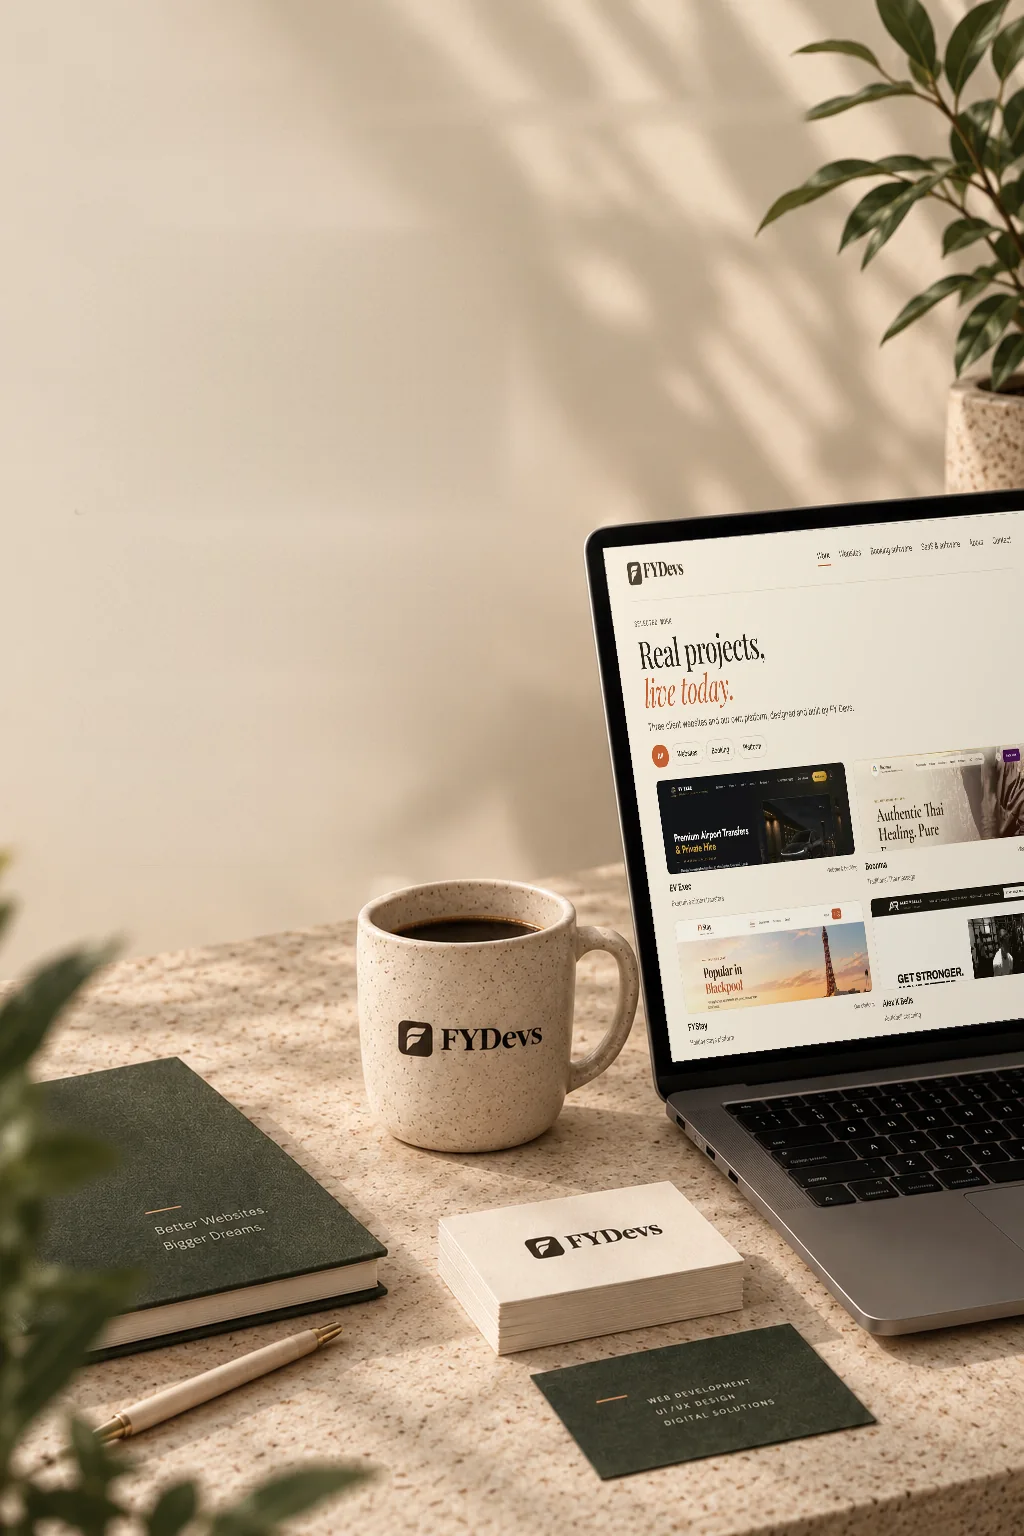
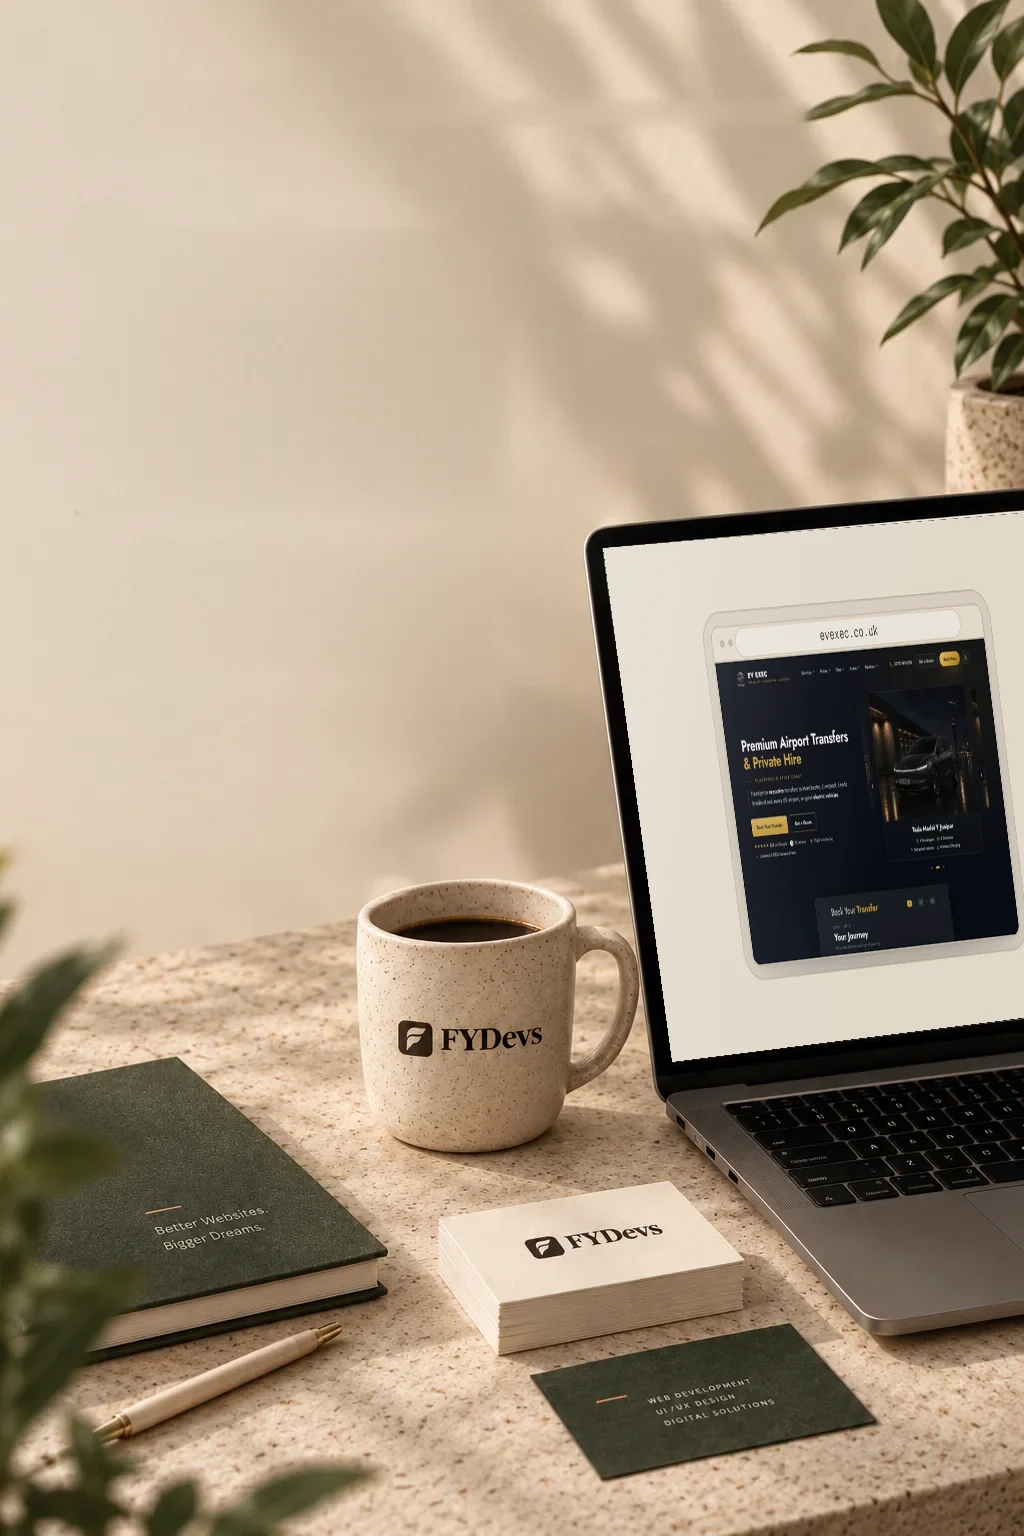
Hero laptop shows the project preview from the start
The laptop in the hero photo now shows the same EV Exec preview the live
screen starts on, so nothing changes as the page loads or as you begin to
scroll. On phones the preview is enlarged to fill the laptop screen and
eases to its normal size as the screen turns to face you, staying centred
in the view; the project tabs appear as it lands. The slideshow only runs
once the zoom has landed, so the screen never changes project mid-scroll.

Claude-Session: https://claude.ai/code/session_01L81Z7NMFirATvJ8pTfU9Zt

Changed region(s): [[0.625, 0.4062, 1.0, 0.6562], [0.625, 0.3438, 0.6562, 0.375]]

diff --git a/src/components/interactive/LaptopZoom.tsx b/src/components/interactive/LaptopZoom.tsx
@@ -46,8 +46,8 @@ function imageMapper(img: HTMLImageElement, box: { x: number; y: number; w: numb
   return ([ix, iy]: Point): Point => [box.x + (ix * box.w) / nw, box.y + (iy * box.h) / nh];
 }
 
-/** CSS matrix3d that maps a w×h box onto the quad (projective transform). */
-function rectToQuad(w: number, h: number, [p0, p1, p2, p3]: Point[]) {
+/** The projective transform taking a w×h box onto the quad, as [a, b, c, d, e, f, g, h]. */
+function homography(w: number, h: number, [p0, p1, p2, p3]: Point[]) {
   const [x0, y0] = p0;
   const [x1, y1] = p1;
   const [x2, y2] = p2;
@@ -65,8 +65,27 @@ function rectToQuad(w: number, h: number, [p0, p1, p2, p3]: Point[]) {
   const b = x3 - x0 + hh * x3;
   const d = y1 - y0 + g * y1;
   const e = y3 - y0 + hh * y3;
-  const m = [a / w, d / w, 0, g / w, b / h, e / h, 0, hh / h, 0, 0, 1, 0, x0, y0, 0, 1];
+  // x' = (a·x + b·y + c) / (g·x + h·y + 1), and likewise y' with d, e, f; x and y in the box.
+  return [a / w, b / h, x0, d / w, e / h, y0, g / w, hh / h];
+}
+
+/** CSS matrix3d that maps a w×h box onto the quad. */
+function rectToQuad(w: number, h: number, quad: Point[]) {
+  const [a, b, c, d, e, f, g, hh] = homography(w, h, quad);
+  const m = [a, d, 0, g, b, e, 0, hh, 0, 0, 1, 0, c, f, 0, 1];
   return `matrix3d(${m.map((n) => +n.toFixed(6)).join(",")})`;
+}
+
+/** The point in the w×h box that the quad's transform takes to (x, y). */
+function unproject(w: number, h: number, quad: Point[], [x, y]: Point): Point {
+  const [a, b, c, d, e, f, g, hh] = homography(w, h, quad);
+  // Solve (a - g·x)u + (b - hh·x)v = x - c and (d - g·y)u + (e - hh·y)v = y - f.
+  const m11 = a - g * x;
+  const m12 = b - hh * x;
+  const m21 = d - g * y;
+  const m22 = e - hh * y;
+  const det = m11 * m22 - m12 * m21;
+  return det ? [((x - c) * m22 - m12 * (y - f)) / det, (m11 * (y - f) - (x - c) * m21) / det] : [w / 2, h / 2];
 }
 
 type Geometry = {
@@ -78,10 +97,19 @@ type Geometry = {
   pCover: number; // progress from which the screen covers the whole stage
   pw: number;
   ph: number;
+  // The project preview (the showcase's tray) enlarged to fill the laptop screen at the start.
+  trayW: number;
+  startW: number; // its width on screen at the start
+  k0: number; // its starting enlargement
+  trayCentre: Point; // in the content column
+  origin: string;
 };
 
 /** Progress through the camera move (zoom and centring), finished a little before the end. */
 const ZOOM_END = 0.8;
+
+/** The quad's average width (of its top and bottom edges). */
+const span = (q: Point[]) => (Math.hypot(q[1][0] - q[0][0], q[1][1] - q[0][1]) + Math.hypot(q[2][0] - q[3][0], q[2][1] - q[3][1])) / 2;
 
 /** Whether the quad contains every corner of the w×h stage. */
 function covers(q: Point[], w: number, h: number) {
@@ -126,7 +154,10 @@ export function LaptopZoom({ hero, screen, children }: { hero: ReactNode; screen
     const heroEl = stage?.querySelector<HTMLElement>(".hero-ed");
     const photo = heroEl?.querySelector<HTMLImageElement>(".hero-ed__photo");
     const copy = heroEl?.querySelector<HTMLElement>(".hero-ed__layout");
-    if (!root || !stage || !panel || !heroEl || !photo || !copy) return;
+    const column = panel?.querySelector<HTMLElement>(".zoom__column");
+    const content = column?.firstElementChild as HTMLElement | null;
+    const tray = content?.querySelector<HTMLElement>(".showcase__stage");
+    if (!root || !stage || !panel || !heroEl || !photo || !copy || !column || !content || !tray) return;
 
     const reduced = window.matchMedia("(prefers-reduced-motion: reduce)");
     let geo: Geometry | null = null;
@@ -197,7 +228,32 @@ export function LaptopZoom({ hero, screen, children }: { hero: ReactNode; screen
           break;
         }
       }
-      geo = { q0, c0, cf, final, sEnd, pCover, pw, ph };
+      // The preview fills most of the screen at the start (on phones it is enlarged to do so),
+      // centred, with the tabs below it hidden; it settles to its place as the screen turns.
+      const t = layoutBox(tray, column);
+      const c = layoutBox(content, column);
+      const fill = Math.min((0.72 * ph) / t.h, (0.86 * pw) / t.w);
+      // Wide screens already show the preview large; only enlarge it where that makes a real difference.
+      const k0 = fill > 1.1 ? fill : 1;
+      const trayCentre: Point = [t.x + t.w / 2, t.y + t.h / 2];
+      geo = {
+        q0,
+        c0,
+        cf,
+        final,
+        sEnd,
+        pCover,
+        pw,
+        ph,
+        trayW: t.w,
+        startW: k0 * t.w * (span(q0) / pw),
+        k0,
+        trayCentre,
+        origin: `${trayCentre[0] - c.x}px ${trayCentre[1] - c.y}px`,
+      };
+      content.style.transformOrigin = geo.origin;
+      // Clip the enlarged preview to the screen (only needed while it is enlarged).
+      panel.style.overflow = k0 > 1 ? "hidden" : "";
       panel.style.width = `${pw}px`;
       panel.style.height = `${ph}px`;
       panel.style.setProperty("--col-x", `${-left}px`);
@@ -219,7 +275,7 @@ export function LaptopZoom({ hero, screen, children }: { hero: ReactNode; screen
       if (p === progress) return;
       progress = p;
 
-      const { q0, c0, final, pCover, pw, ph } = geo;
+      const { q0, c0, final, pCover, pw, ph, trayW, startW, k0, trayCentre } = geo;
       const cam = camera(p, geo);
       const onScreen = place(q0, c0, cam);
       // Turning to face the viewer happens only while the screen fills the stage.
@@ -235,13 +291,31 @@ export function LaptopZoom({ hero, screen, children }: { hero: ReactNode; screen
       copy.style.pointerEvents = copyFade < 0.5 ? "none" : "";
 
       panel.style.transform = p >= 1 ? `translate(${final[0][0]}px, ${final[0][1]}px)` : rectToQuad(pw, ph, corners);
-      panel.style.opacity = String(smoothstep(0, 0.06, p));
+      // The preview's size on screen grows steadily from where it starts to where it ends,
+      // so its enlargement inside the screen eases off as the camera closes in.
+      const scaleOnScreen = span(corners) / pw;
+      const wantW = startW * (trayW / startW) ** easeInOut(p);
+      const k = p >= 1 ? 1 : clamp(wantW / (trayW * scaleOnScreen), 1, k0);
+      const m = k0 > 1 ? (k0 - k) / (k0 - 1) : 1;
+      // Keep the preview centred in the view: at the start on the screen's centre, then on whichever
+      // part of the screen is in the middle of the view (the screen is seen at an angle).
+      const W = stage.clientWidth;
+      const H = stage.clientHeight;
+      const colX = (pw - W) / 2;
+      const colY = (ph - H) / 2;
+      const inView = unproject(pw, ph, corners, [W / 2, H / 2]);
+      const follow = smoothstep(0.12, 0.55, p);
+      const aim: Point = [lerp(W / 2, inView[0] - colX, follow), lerp(H / 2, inView[1] - colY, follow)];
+      const shift: Point = [(aim[0] - trayCentre[0]) * (1 - m), (aim[1] - trayCentre[1]) * (1 - m)];
+      content.style.transform = k > 1 || m < 1 ? `translate3d(${shift[0]}px, ${shift[1]}px, 0) scale(${k})` : "";
+      panel.style.setProperty("--zoom-ui", String(smoothstep(pCover, 1, p)));
       panel.style.setProperty("--glare", String((1 - turn) * (1 - smoothstep(0.3, 0.9, p / Math.max(pCover, 0.01)) * 0.6)));
       panel.style.pointerEvents = p >= 1 ? "" : "none";
       const state = p >= 1 ? "done" : p > 0 ? "active" : "start";
       if (root.dataset.zoom !== state) {
         root.dataset.zoom = state;
-        setSettled(state !== "active");
+        // The slideshow only runs once the zoom has landed, so the screen never changes project mid-scroll.
+        setSettled(state === "done");
       }
     };
 
@@ -270,6 +344,7 @@ export function LaptopZoom({ hero, screen, children }: { hero: ReactNode; screen
       window.addEventListener("scroll", schedule, { passive: true });
       ro = new ResizeObserver(remeasure);
       ro.observe(stage);
+      ro.observe(tray);
       panel.addEventListener("focusin", onFocusIn);
       if (!photo.complete) photo.addEventListener("load", remeasure, { once: true });
     };
@@ -280,7 +355,7 @@ export function LaptopZoom({ hero, screen, children }: { hero: ReactNode; screen
       panel.removeEventListener("focusin", onFocusIn);
       if (frame) cancelAnimationFrame(frame);
       frame = 0;
-      for (const el of [heroEl, copy, panel]) el.removeAttribute("style");
+      for (const el of [heroEl, copy, panel, content]) el.removeAttribute("style");
       delete root.dataset.zoom;
       setSettled(true);
     };

diff --git a/src/app/globals.css b/src/app/globals.css
@@ -1909,10 +1909,22 @@ main {
   z-index: 2;
   top: 0;
   left: 0;
-  opacity: 0;
   transform-origin: 0 0;
   background: var(--color-bg);
   backface-visibility: hidden;
+  animation: zoom-screen-on 600ms ease both;
+}
+
+/* The photo's screen already shows the same preview; the live one settles over it as the page loads. */
+@keyframes zoom-screen-on {
+  from {
+    opacity: 0;
+  }
+}
+
+/* The project tabs below the preview appear as the screen turns to face you. */
+.zoom.is-zoom .showcase__bar {
+  opacity: var(--zoom-ui, 1);
 }
 
 /* Glass: a soft reflection and the room's warm light, gone by the time the screen faces you. */
@@ -1939,7 +1951,6 @@ main {
   width: var(--col-w);
   height: var(--col-h);
   padding-bottom: 3%;
-  overflow: hidden;
 }
 
 .zoom.is-zoom .showcase-section {

diff --git a/src/app/page.tsx b/src/app/page.tsx
@@ -103,7 +103,7 @@ export default function HomePage() {
             <div className="hero-ed__visual">
               <Image
                 src={workspace}
-                alt="A FY Devs desk: a laptop showing our portfolio of EV Exec, Boonma, FYStay and Alex K Bells, beside a FY Devs mug, notebook and business cards."
+                alt="A FY Devs desk: a laptop showing the EV Exec website we built, beside a FY Devs mug, notebook and business cards."
                 sizes="(min-width: 64rem) 75vw, 100vw"
                 placeholder="blur"
                 preload
